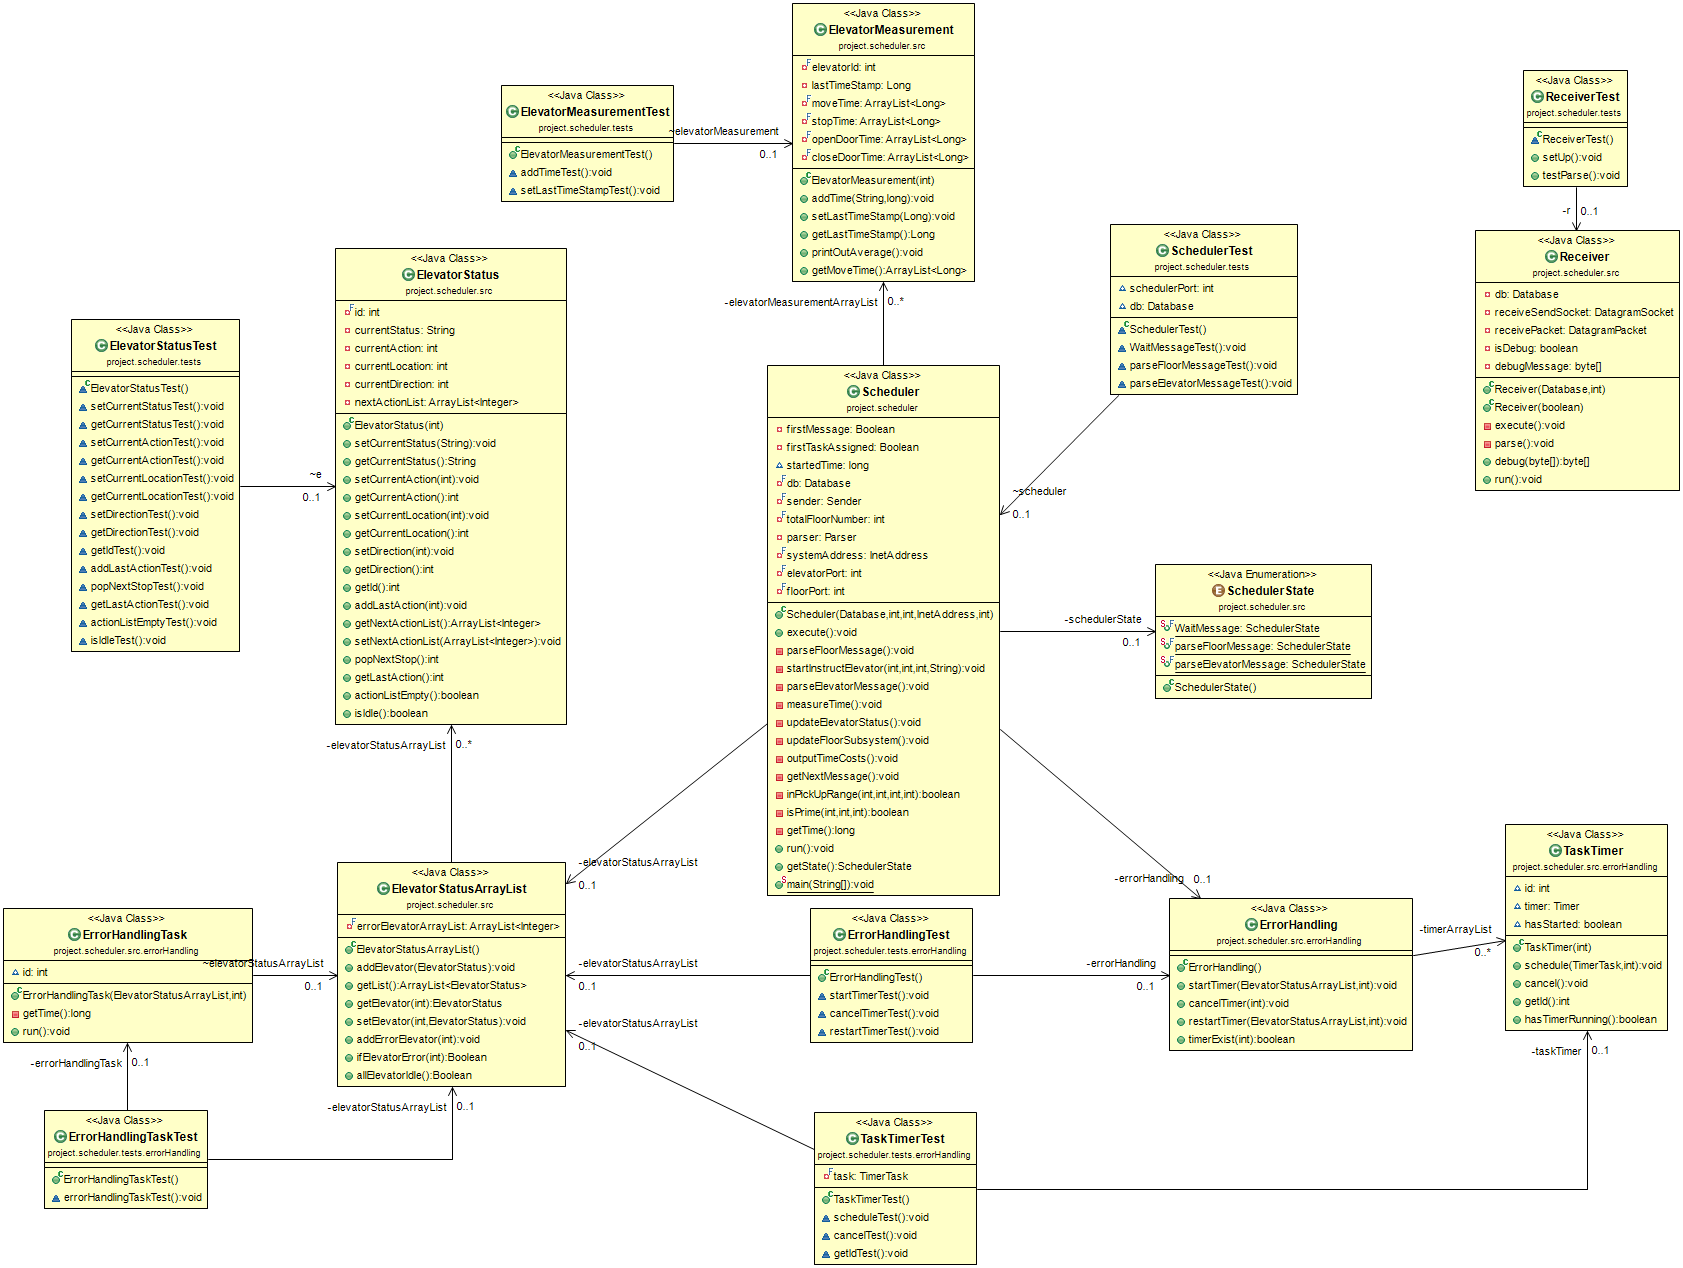
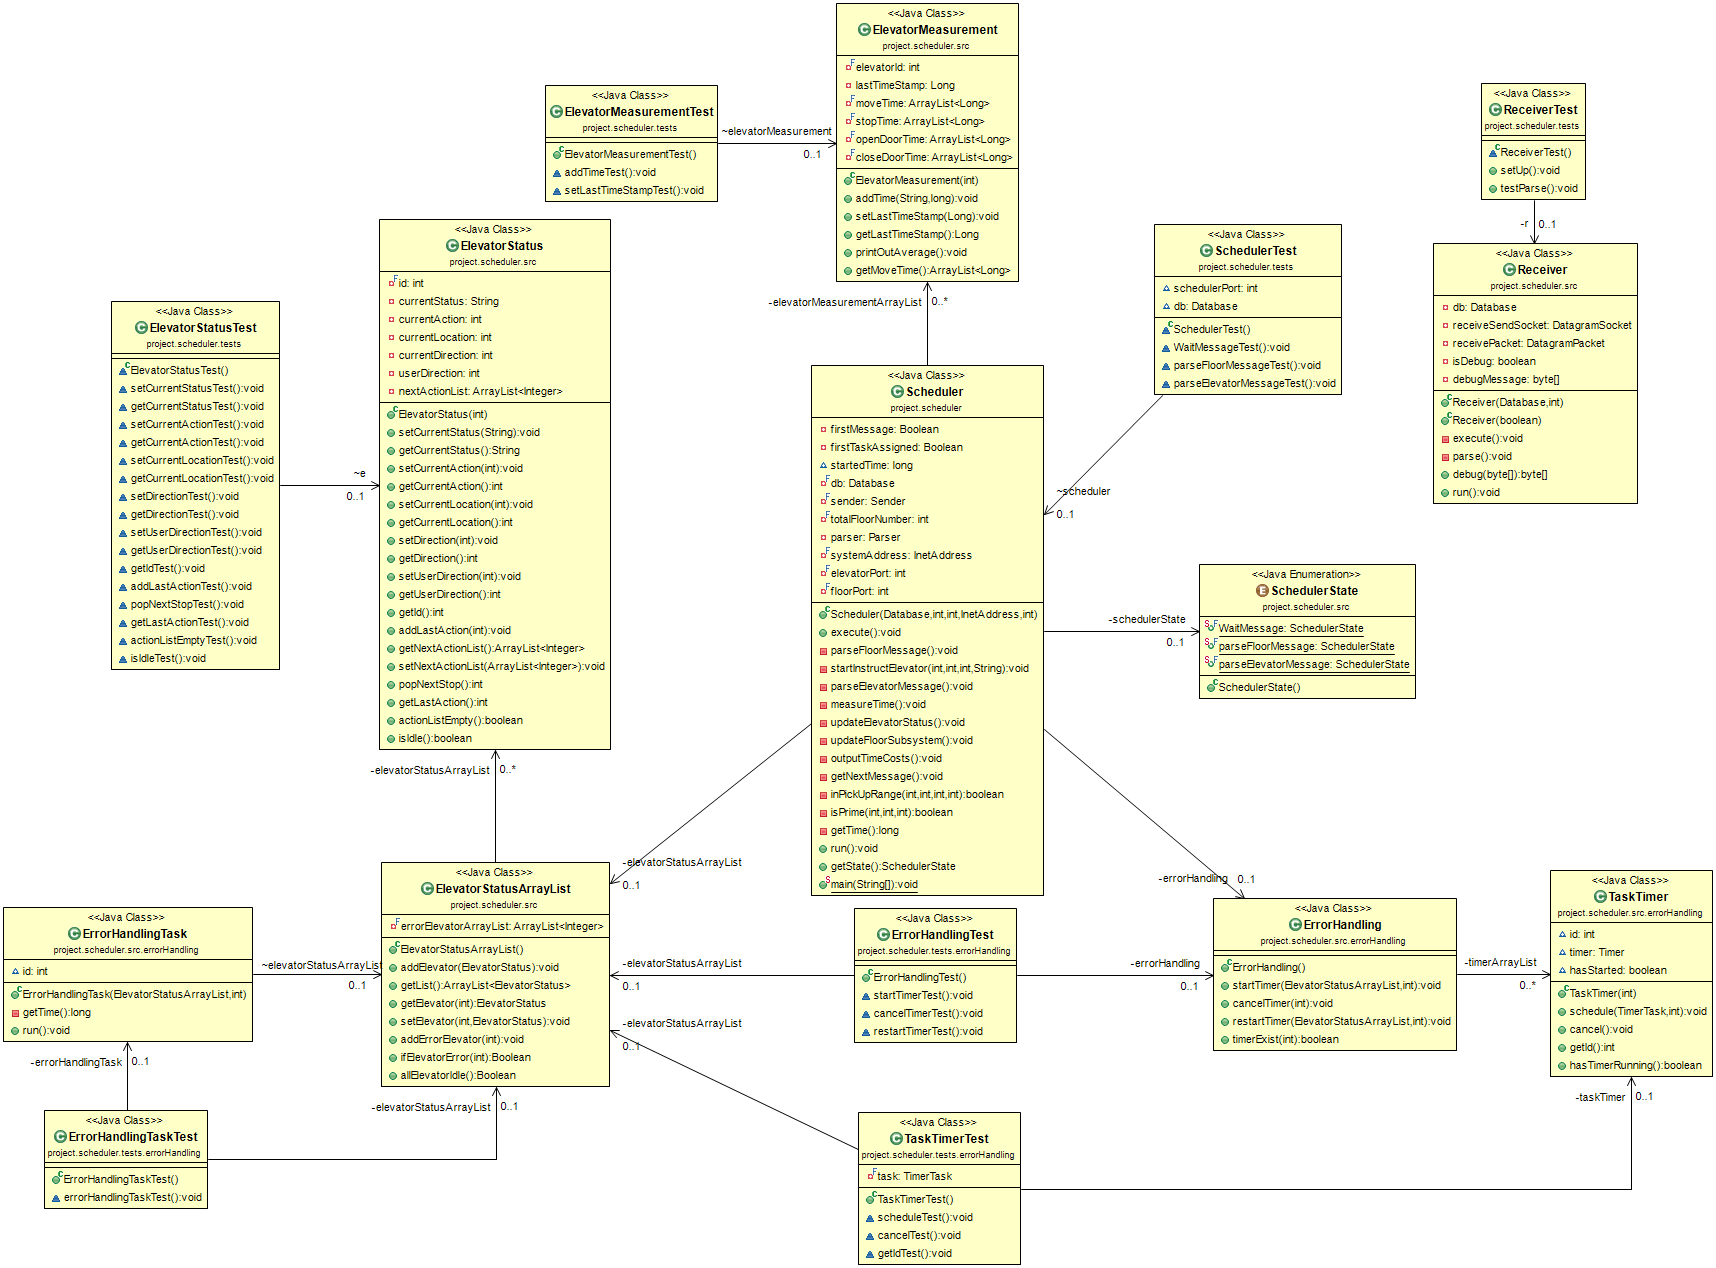
[ZH] Fix bugs and add new class diagram 1. Fix the scheduler to no longer pick a new user with different direction with current user 2. Fix the scheduler to always printout the average time cost then there is any elevator in error state 3. Redraw the new class diagram

diff --git a/project/src/project/scheduler/src/ElevatorMeasurement.java b/project/src/project/scheduler/src/ElevatorMeasurement.java
@@ -57,20 +57,39 @@ public class ElevatorMeasurement {
      */
     public void printOutAverage(){
         Calculator c = new Calculator();
-        Long moveMean = c.mean(this.moveTime);
-        double moveCI = c.confidenceInterval(this.moveTime, 99.9);
-        Long stopMean = c.mean(this.stopTime);
-        double stopCI = c.confidenceInterval(this.stopTime, 99.9);
-        Long openDoorMean = c.mean(this.openDoorTime);
-        double openDoorCI = c.confidenceInterval(this.openDoorTime, 99.9);
-        Long closeDoorMean = c.mean(this.closeDoorTime);
-        double closeDoorCI = c.confidenceInterval(this.closeDoorTime, 99.9);
-
         System.out.println("\nFor elevator " + this.elevatorId + ": ");
-        System.out.println("The mean of time elapsed on moving between two floors is: " + moveMean + " ± " + moveCI + " ms with 99.9% confidence interval.");
-        System.out.println("The mean of time elapsed on stopping the elevator is: " + stopMean + " ± " + stopCI + " ms with 99.9% confidence interval.");
-        System.out.println("The mean of time elapsed on open the elevator door is: " + openDoorMean + " ± " + openDoorCI + " ms with 99.9% confidence interval.");
-        System.out.println("The mean of time elapsed on close the elevator door is: " + closeDoorMean + " ± " + closeDoorCI + " ms with 99.9% confidence interval.");
+
+        if(this.moveTime.size() != 0) {
+            Long moveMean = c.mean(this.moveTime);
+            double moveCI = c.confidenceInterval(this.moveTime, 99.9);
+            System.out.println("The mean of the time elapsed on moving between two floors is: " + moveMean + " ± " + moveCI + " ms with 99.9% confidence interval.");
+        }else{
+            System.out.println("No data found on the time elapsed on moving between two floors.");
+        }
+
+        if(this.stopTime.size() != 0) {
+            Long stopMean = c.mean(this.stopTime);
+            double stopCI = c.confidenceInterval(this.stopTime, 99.9);
+            System.out.println("The mean of the time elapsed on stopping the elevator is: " + stopMean + " ± " + stopCI + " ms with 99.9% confidence interval.");
+        }else{
+            System.out.println("No data found on the time elapsed on stopping the elevator.");
+        }
+
+        if(this.openDoorTime.size() != 0) {
+            Long openDoorMean = c.mean(this.openDoorTime);
+            double openDoorCI = c.confidenceInterval(this.openDoorTime, 99.9);
+            System.out.println("The mean of the time elapsed on open the elevator door is: " + openDoorMean + " ± " + openDoorCI + " ms with 99.9% confidence interval.");
+        }else{
+            System.out.println("No data found on the time elapsed on open the elevator door.");
+        }
+
+        if(this.closeDoorTime.size() != 0) {
+            Long closeDoorMean = c.mean(this.closeDoorTime);
+            double closeDoorCI = c.confidenceInterval(this.closeDoorTime, 99.9);
+            System.out.println("The mean of the time elapsed on close the elevator door is: " + closeDoorMean + " ± " + closeDoorCI + " ms with 99.9% confidence interval.");
+        }else{
+            System.out.println("No data found on the time elapsed on close the elevator door.");
+        }
     }
 
     /**

diff --git a/project/src/project/scheduler/Scheduler.java b/project/src/project/scheduler/Scheduler.java
@@ -85,7 +85,7 @@ public class Scheduler implements Runnable {
                 if (e.getCurrentStatus().equals("Idle")) {      // elevator in idle state
                     fit = true;
                 } else {        // elevator is current moving
-                    if (this.parser.getDirection() == e.getDirection() && this.inPickUpRange(e.getDirection(), e.getCurrentLocation(), e.getLastAction(), userLocation)) {
+                    if (this.parser.getDirection() == e.getUserDirection() && this.parser.getDirection() == e.getDirection() && this.inPickUpRange(e.getDirection(), e.getCurrentLocation(), e.getLastAction(), userLocation)) {
                         fit = true;
                     }
                 }
@@ -159,6 +159,7 @@ public class Scheduler implements Runnable {
         // Update Local Elevator Status
         currentElevatorStatus.setCurrentStatus(state);
         currentElevatorStatus.setNextActionList(nextActionList);
+        currentElevatorStatus.setUserDirection(this.parser.getDirection());
         this.elevatorStatusArrayList.setElevator(elevatorToMove - 1, currentElevatorStatus);
     }
 

diff --git a/project/src/project/scheduler/src/ElevatorStatus.java b/project/src/project/scheduler/src/ElevatorStatus.java
@@ -14,6 +14,7 @@ public class ElevatorStatus {
     private int currentAction;
     private int currentLocation;
     private int currentDirection;        // -1 none; 0 Down; 1 Up
+    private int userDirection;        // -1 none; 0 Down; 1 Up
     private ArrayList<Integer> nextActionList = new ArrayList<>();
 
     public ElevatorStatus(int id) {
@@ -66,7 +67,7 @@ public class ElevatorStatus {
 
 
     /**
-     * Get elevator's current direction
+     * Set elevator's current direction
      */
     public void setDirection(int currentDirection) {
         this.currentDirection = currentDirection;
@@ -77,6 +78,20 @@ public class ElevatorStatus {
      */
     public int getDirection() {
         return this.currentDirection;
+    }
+
+    /**
+     * Set the user's direction
+     */
+    public void setUserDirection(int userDirection) {
+        this.userDirection = userDirection;
+    }
+
+    /**
+     * Get the user's direction (Ex. Up or down)
+     */
+    public int getUserDirection() {
+        return this.userDirection;
     }
 
     /**

diff --git a/project/src/project/scheduler/src/ElevatorStatusArrayList.java b/project/src/project/scheduler/src/ElevatorStatusArrayList.java
@@ -73,13 +73,13 @@ public class ElevatorStatusArrayList {
     }
 
     /**
-     * check if all elevator is in idle state
+     * check if all elevator is in idle or error state
      *
-     * @return true if all elevator is in idle state
+     * @return true if all elevator is in idle or error state
      */
     public synchronized Boolean allElevatorIdle() {
         for (ElevatorStatus e : elevatorStatusArrayList) {
-            if (!e.getCurrentStatus().equals("Idle")) {
+            if (!e.getCurrentStatus().equals("Idle") && !e.getCurrentStatus().equals("Error")) {
                 return false;
             }
         }

diff --git a/project/src/project/scheduler/tests/ElevatorStatusTest.java b/project/src/project/scheduler/tests/ElevatorStatusTest.java
@@ -63,6 +63,18 @@ class ElevatorStatusTest {
     }
 
     @Test
+    void setUserDirectionTest() {
+        e.setUserDirection(0);
+        Assertions.assertNotEquals(1, e.getUserDirection());
+    }
+
+    @Test
+    void getUserDirectionTest() {
+        e.setUserDirection(1);
+        Assertions.assertEquals(1, e.getUserDirection());
+    }
+
+    @Test
     void getIdTest() {
         Assertions.assertEquals(1, e.getId());
     }
